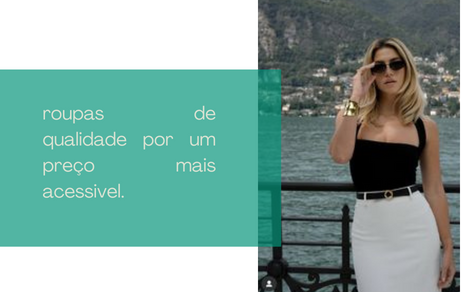
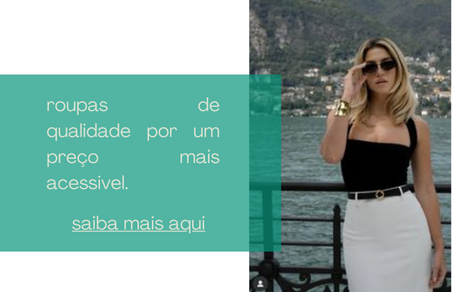
atualizações no saiba mais

diff --git a/index.html b/index.html
@@ -34,11 +34,14 @@
 
         <!-- TABELA COM SOBRE NÓS E REDES SOCIAIS -->
         <section class="sobre-nos-adelis">
+
+            <!-- SOBRE NÓS DA ESQUERDA COM INSTAGRAM -->
             <a href="https://www.instagram.com/adelis.loja/" target="_blank"><img src="img/Homepage/sobre-nos-esquerda.png" width="800px"></a>
 
             <br><br><br>
 
-            <a href="https://www.instagram.com/adelis.loja/" target="_blank"><img src="img/Homepage/sobre-nos-direita.png" align="right" width="800px"></a>
+            <!-- SOBRE NÓS DA DIREITA COM SAIBA MAIS -->
+            <a href="#" target="_blank"><img src="img/Homepage/sobre-nos-direita.png" align="right" width="800px"></a>
         </section> <!-- FIM DA SEÇÃO SOBRE NÓS -->
 
         <!-- SEÇÃO DE CARROSSEL COM BANNERS DOS PRODUTOS DA LOJA -->
